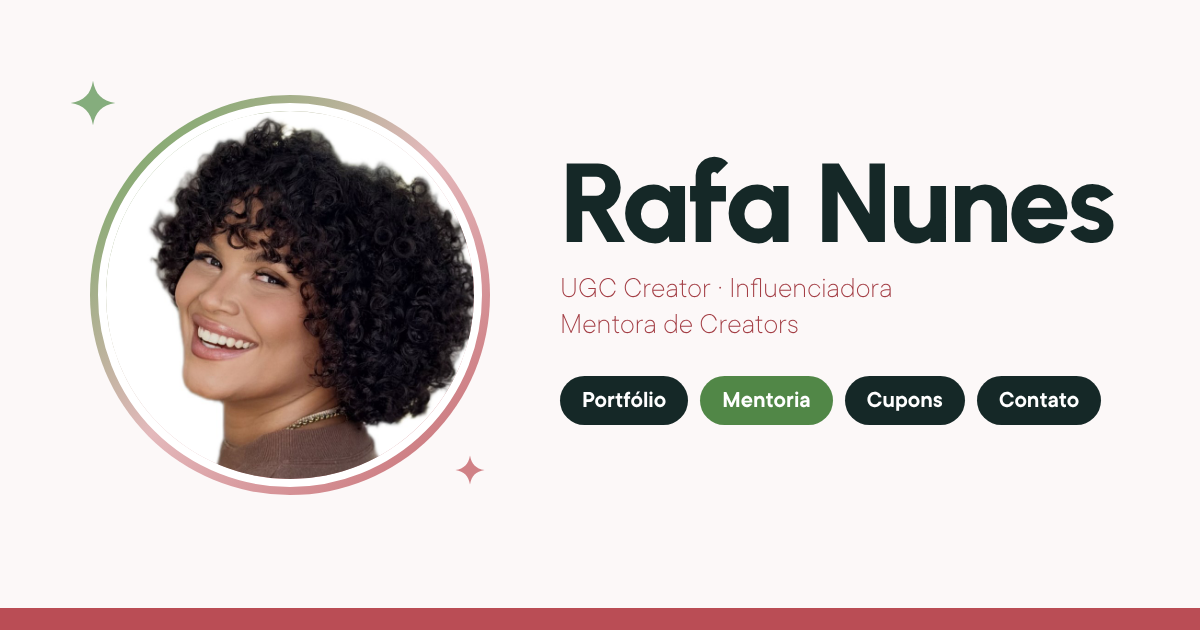
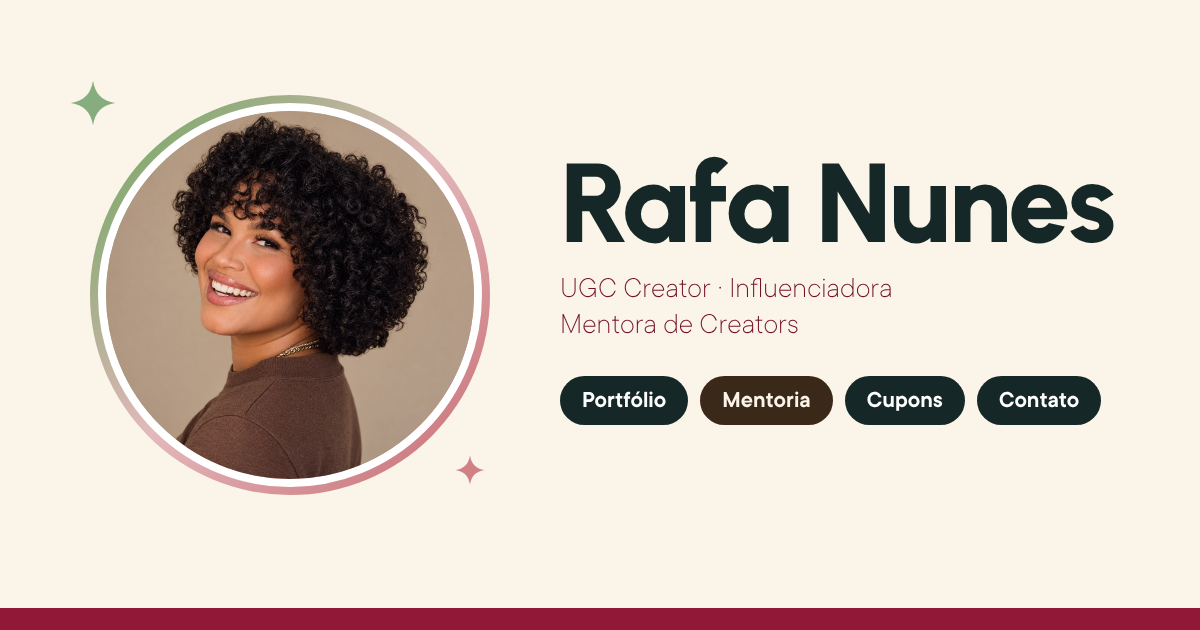
Link da bio e prévia com a mesma foto de capa do portfólio (fundo bege)
Claude-Session: https://claude.ai/code/session_01WuCWGBABqJn5AsxoaHdXvB

diff --git a/ugc-portfolio/src/lib/data/links.ts b/ugc-portfolio/src/lib/data/links.ts
@@ -13,7 +13,7 @@ export const LINKS_PROFILE = {
   name: "Rafa Nunes",
   role: "UGC Creator · Influenciadora · Mentora de Creators",
   bio: "Crio vídeos UGC e conteúdo de influência que fazem as marcas serem lembradas. E ensino quem tá começando a transformar conteúdo em parceria paga.",
-  photo: "/images/foto-capa.jpg",
+  photo: "/images/fotos/foto-estudio-bege.jpg",
   stats: [
     { value: "+60", label: "marcas atendidas" },
     { value: "25K", label: "seguidores" },

diff --git a/ugc-portfolio/src/app/page.tsx b/ugc-portfolio/src/app/page.tsx
@@ -276,7 +276,7 @@ export default function LinksPage() {
               alt={LINKS_PROFILE.name}
               fill
               sizes="448px"
-              className="object-cover object-[center_30%]"
+              className="object-cover object-[center_25%]"
               priority
             />
           </div>
